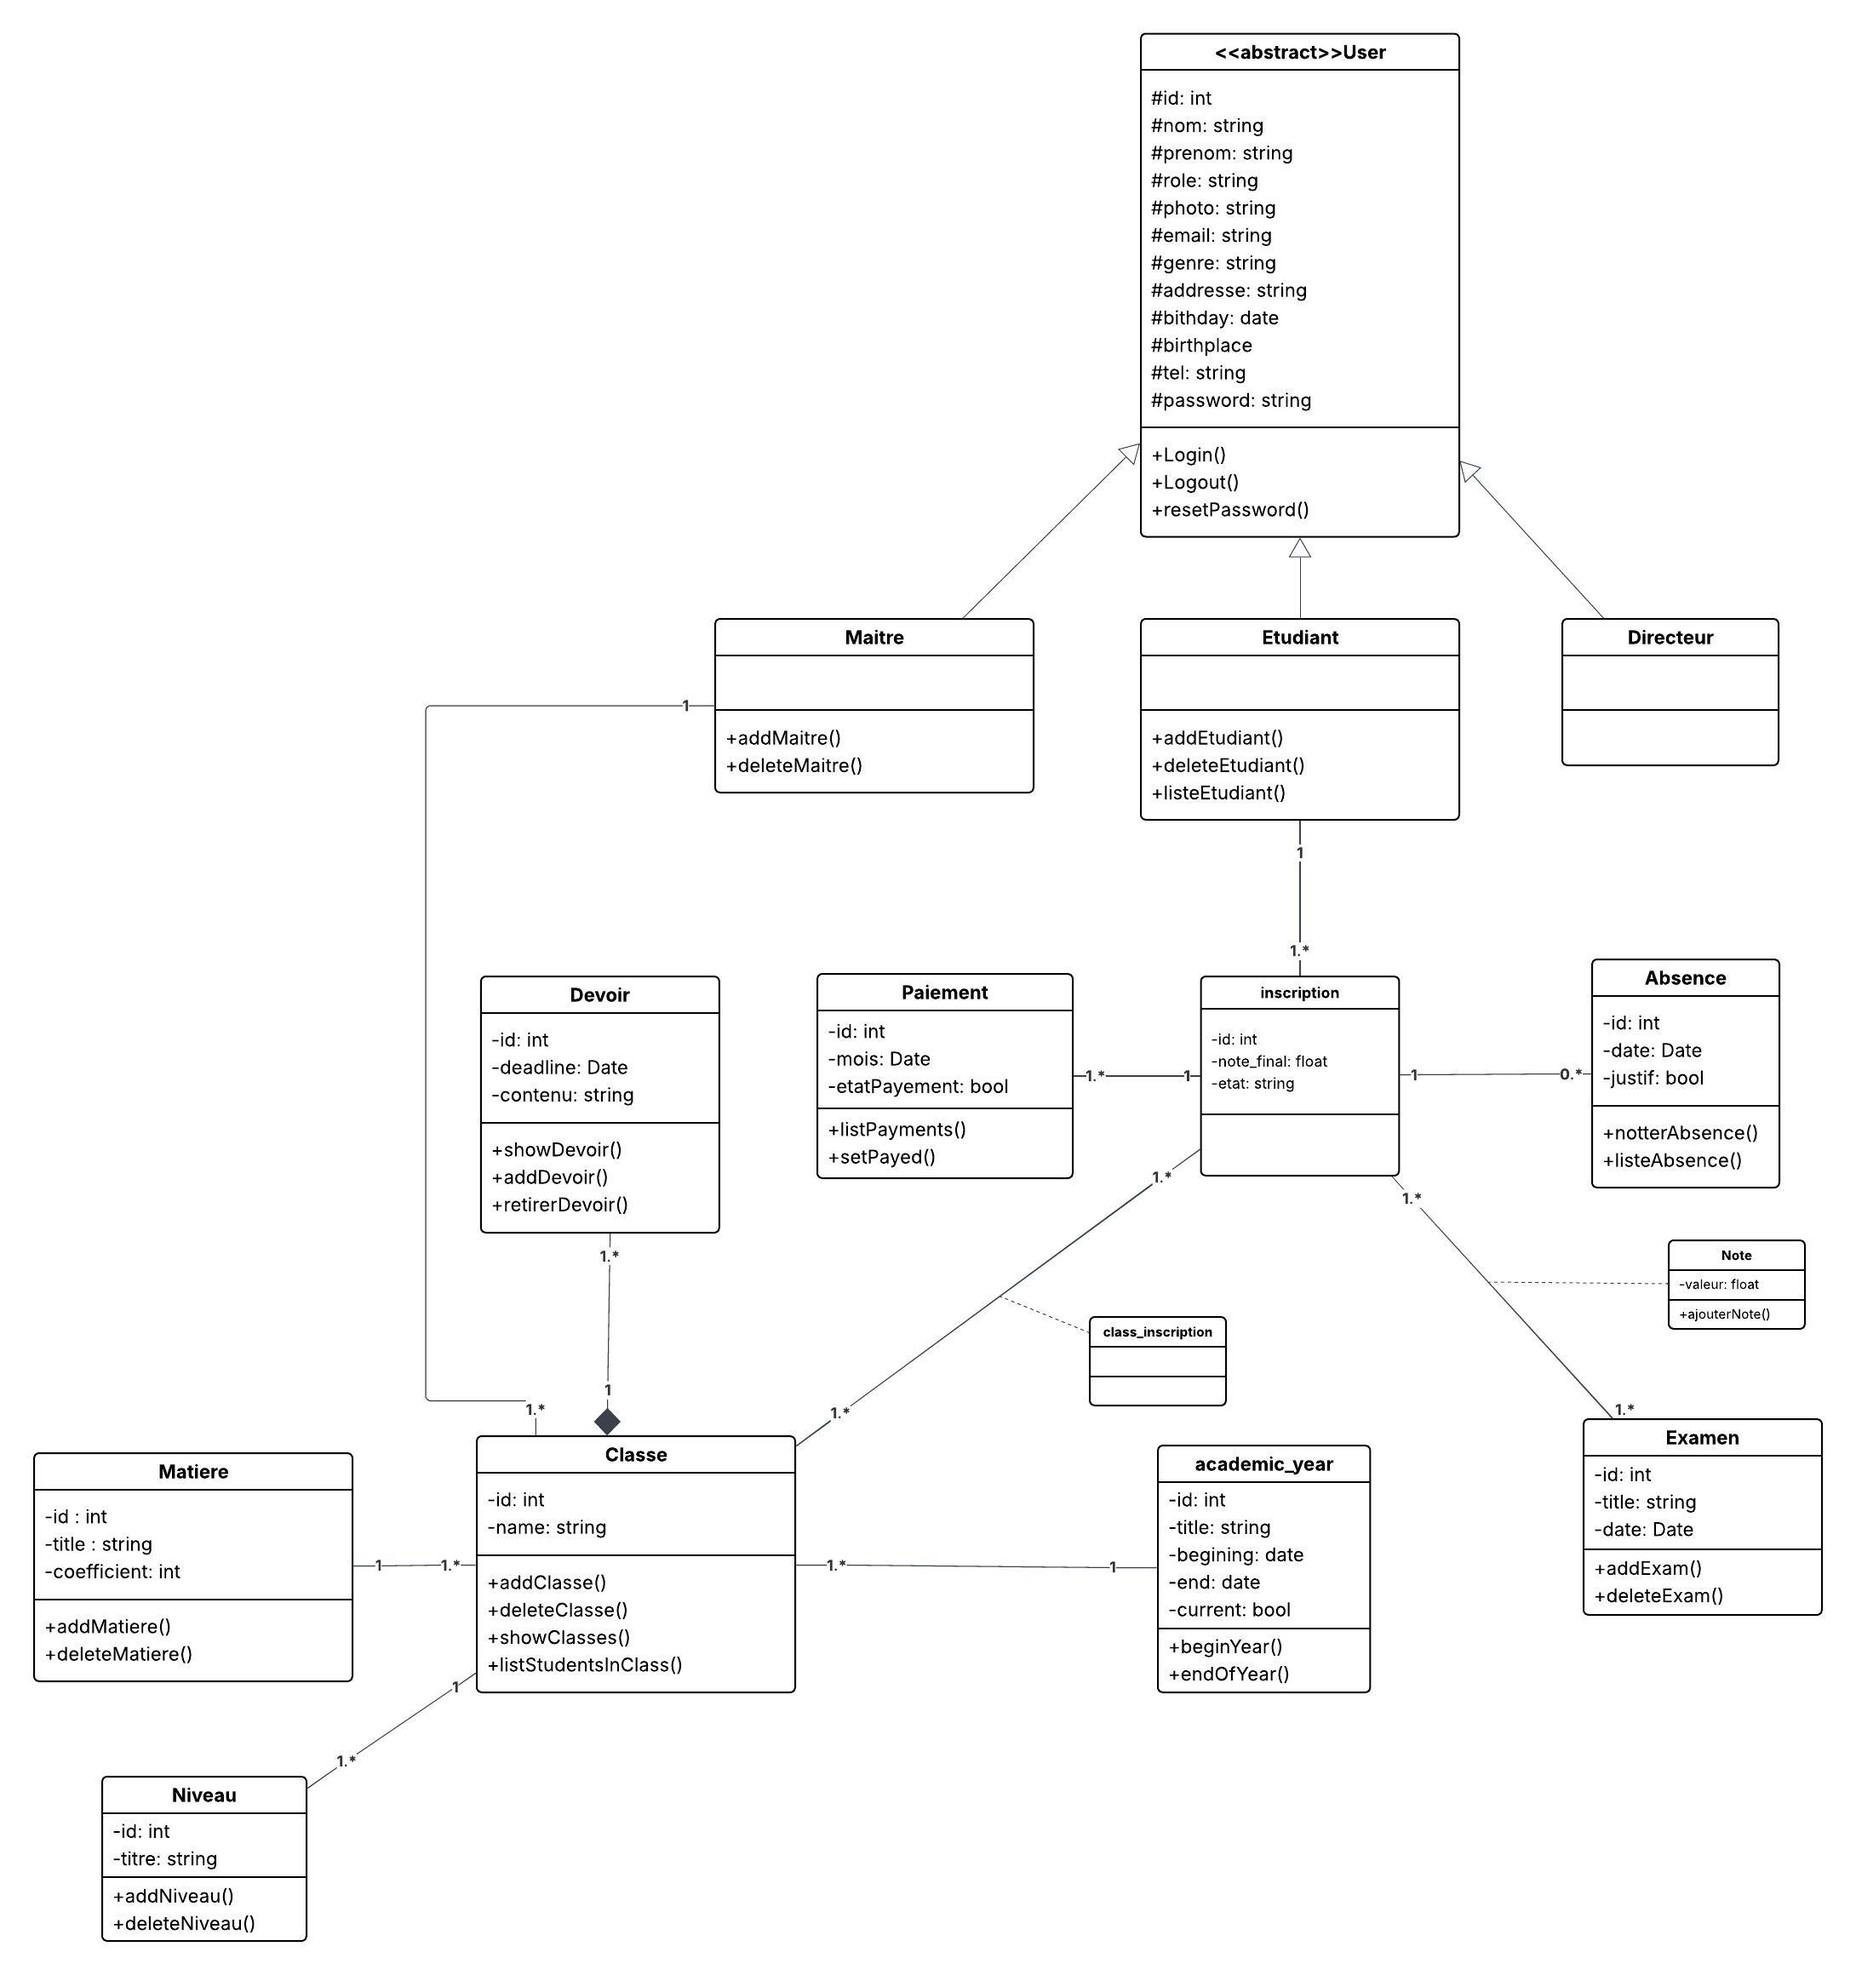
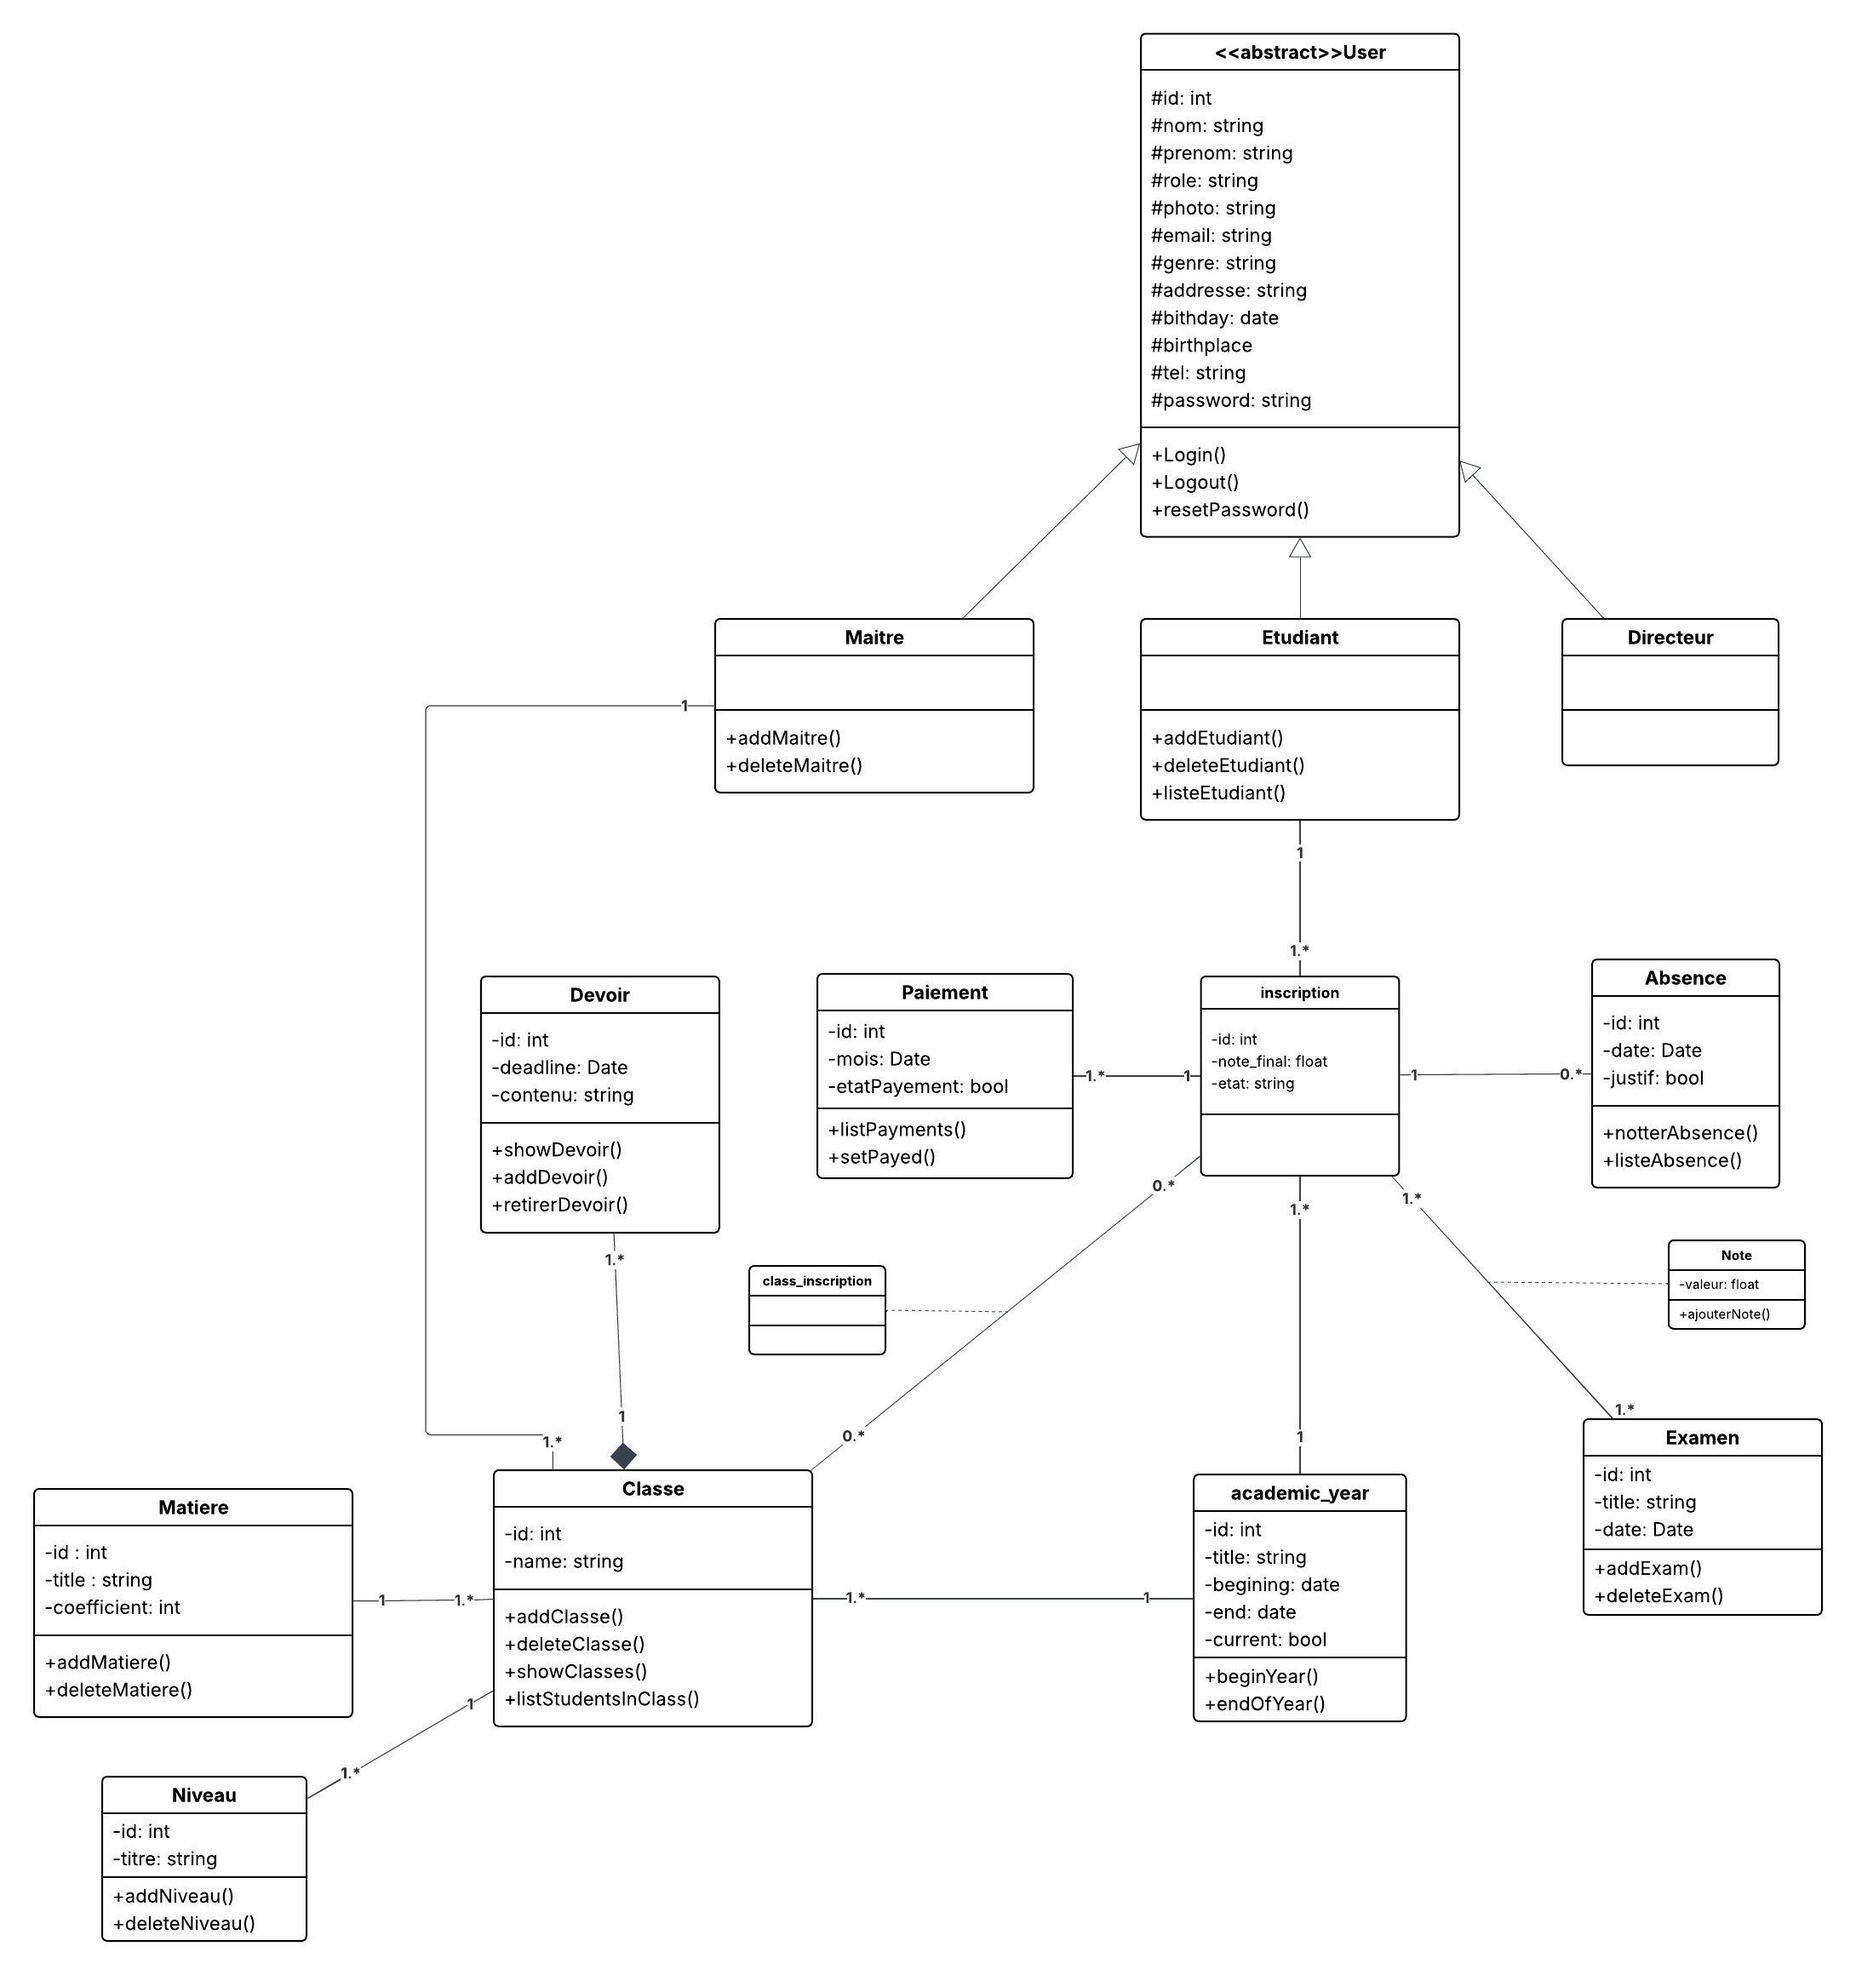
removed unused column from inscription

diff --git a/database/migrations/2026_03_26_180753_create_inscriptions_table.php b/database/migrations/2026_03_26_180753_create_inscriptions_table.php
@@ -13,7 +13,6 @@ return new class extends Migration {
         Schema::create('inscriptions', function (Blueprint $table) {
             $table->id();
             $table->foreignId('student_id')->constrained()->cascadeOnDelete();
-            $table->foreignId('school_class_id')->nullable()->constrained('school_classes')->cascadeOnDelete();
             $table->foreignId('year_id')->constrained('academic_year')->cascadeOnDelete();
             $table->float('note_final')->nullable();
             $table->string('statut')->default('current');

diff --git a/database/seeders/StudentSeeder.php b/database/seeders/StudentSeeder.php
@@ -39,7 +39,6 @@ class StudentSeeder extends Seeder
                 $inscription = Inscription::create([
                     'student_id' => $student->id,
                     'year_id' => $year->id,
-                    'school_class_id' => $class ? $class->id : null,
                     'statut' => 'active',
                 ]);
 

diff --git a/database/seeders/SchoolClassSeeder.php b/database/seeders/SchoolClassSeeder.php
@@ -54,7 +54,6 @@ class SchoolClassSeeder extends Seeder
                 if ($inscription) {
                     $inscription->schoolClasses()->syncWithoutDetaching([$class->id]);
 
-                    $inscription->update(['school_class_id' => $class->id]);
                 }
             }
 

diff --git a/app/Models/Inscription.php b/app/Models/Inscription.php
@@ -29,7 +29,7 @@ class Inscription extends Model
 
     public function year(): BelongsTo
     {
-        return $this->schoolClasses->year();
+        return $this->belongsTo(Year::class, 'year_id');
     }
 
     public function absences(): HasMany
